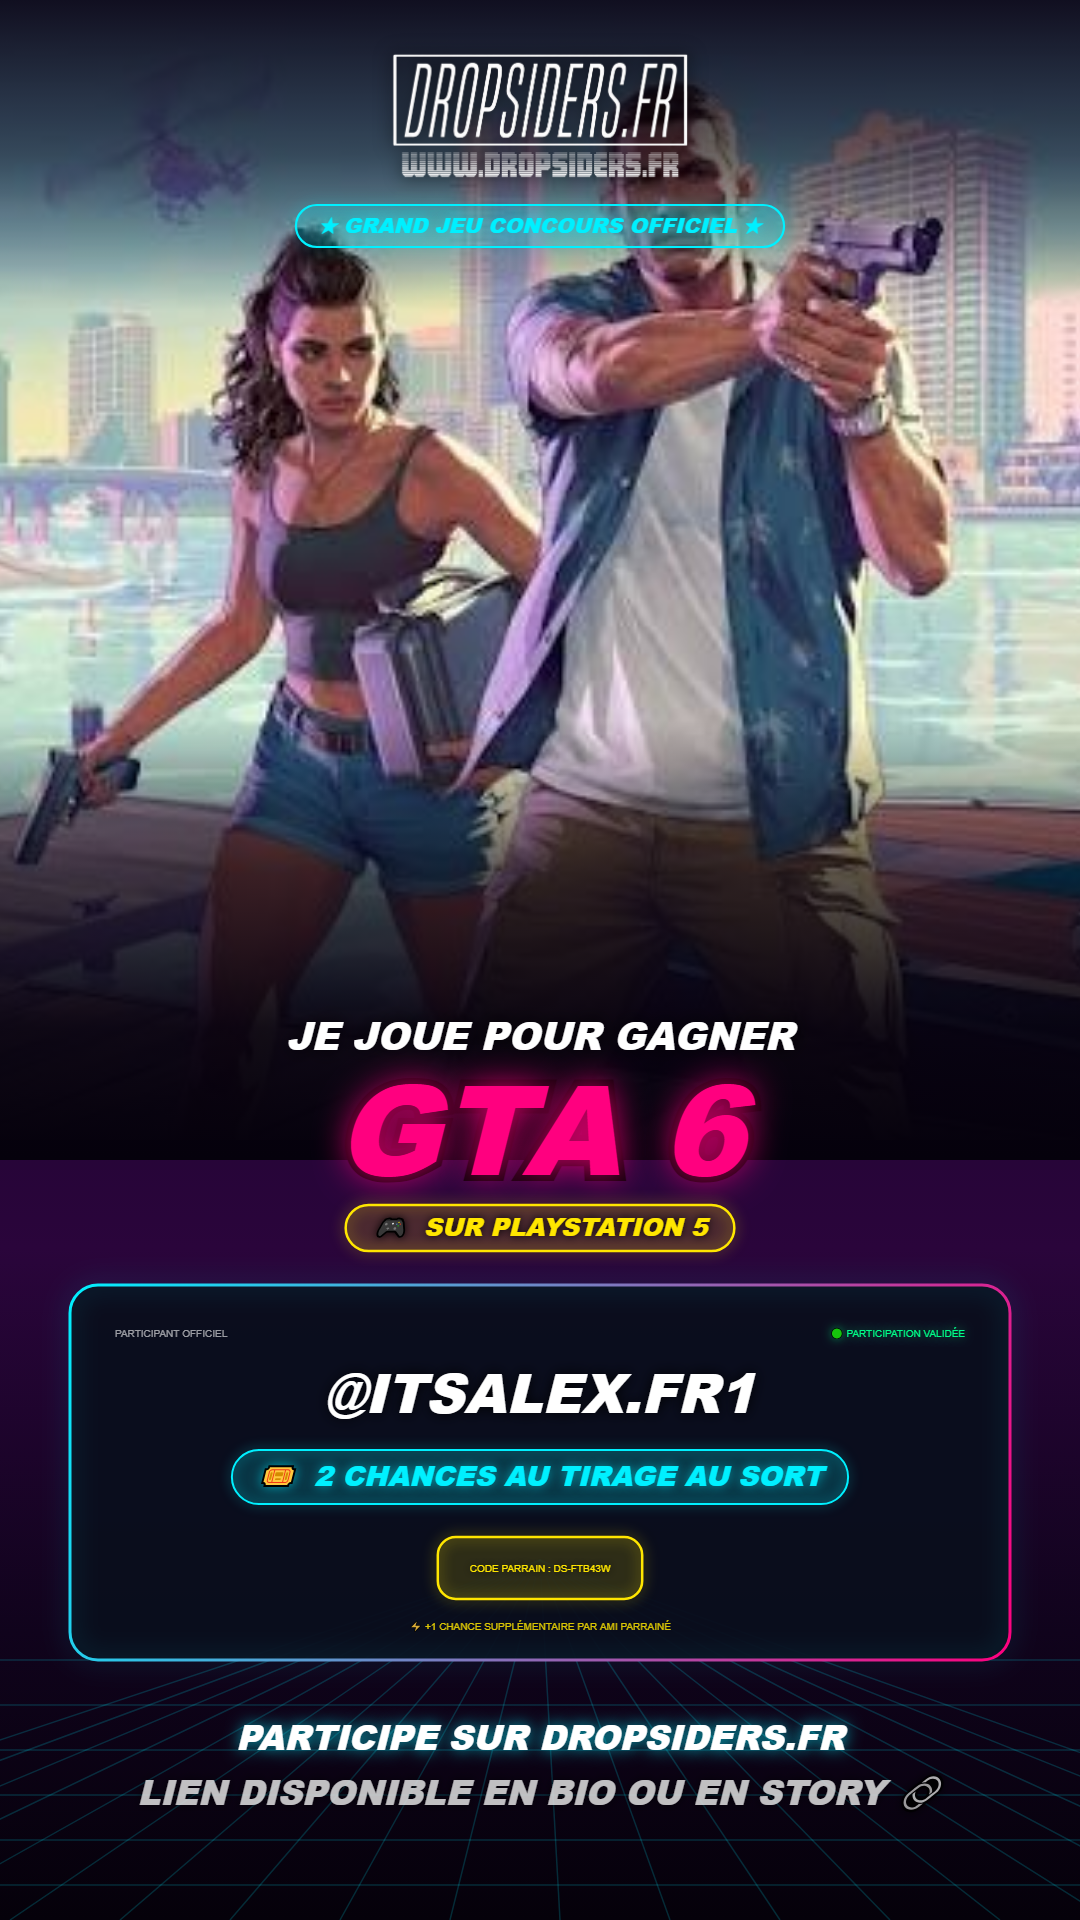
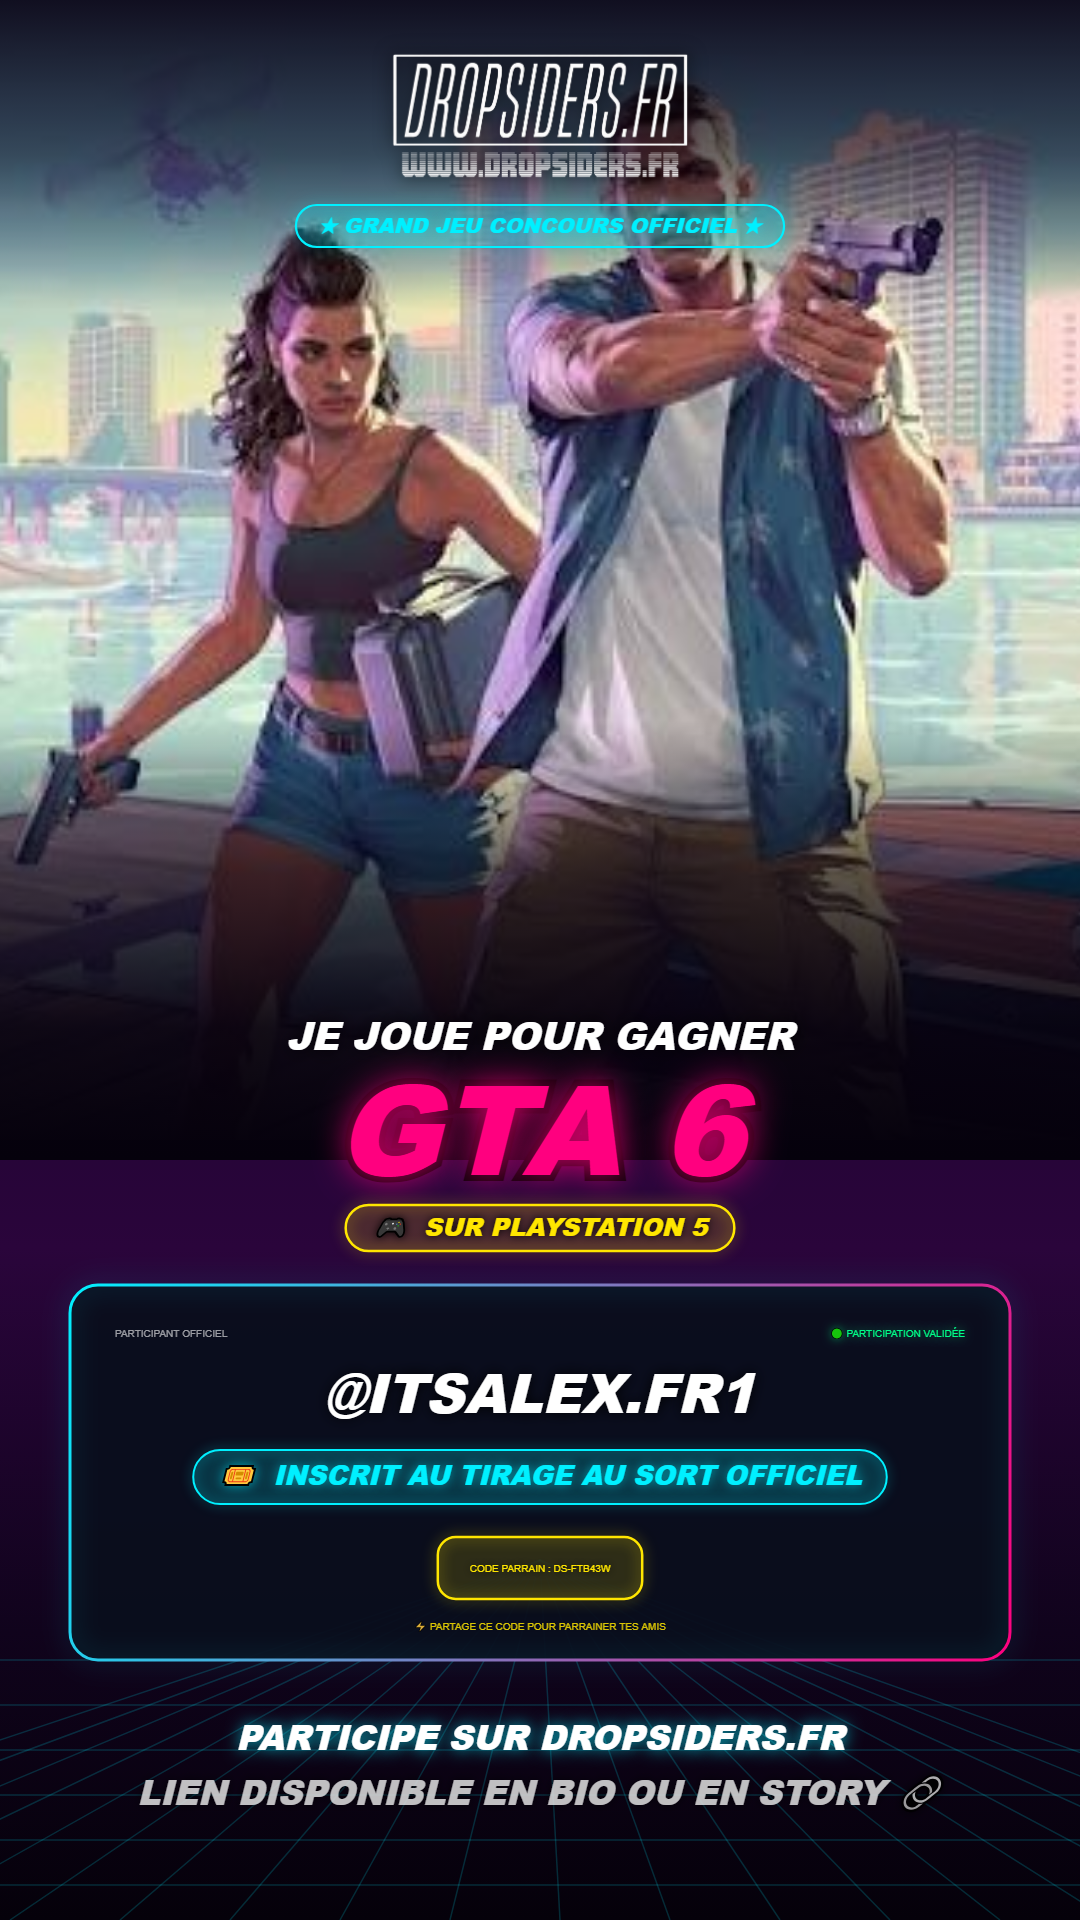
feat(contest): add referral code input field and remove 2 chances mentions

Changed region(s): [[0.1833, 0.75, 0.825, 0.7812]]

diff --git a/src/pages/GTAContestPage.tsx b/src/pages/GTAContestPage.tsx
@@ -227,11 +227,8 @@ export function GTAContestPage() {
             const referralCode = generateReferralCode();
             const optInToken = 'ds_opt_' + Math.random().toString(36).substring(2, 12);
 
-            // Compute chances
-            // Base ticket: 1 (if correct)
-            // Account bonus: +1 if checked or logged in
-            const accountBonusGranted = createAccountBonus || isLoggedIn;
-            const totalTickets = evalResult.isAllCorrect ? (1 + (accountBonusGranted ? 1 : 0)) : 0;
+            // 1 valid entry for the official lottery
+            const totalTickets = evalResult.isAllCorrect ? 1 : 0;
 
             const newEntry: GTAContestEntry = {
                 id: 'gta_' + Date.now(),
@@ -240,9 +237,9 @@ export function GTAContestPage() {
                 instagram: instagram.trim().startsWith('@') ? instagram.trim() : `@${instagram.trim()}`,
                 email: email.trim().toLowerCase(),
                 plateforme,
-                hasAccountBonus: accountBonusGranted,
+                hasAccountBonus: false,
                 referralCode,
-                referredBy: referredBy || undefined,
+                referredBy: referredBy.trim() ? referredBy.trim().toUpperCase() : undefined,
                 referralCount: 0,
                 totalTickets,
                 answers: { q1: q1.trim(), q2: q2.trim(), q3: q3.trim() },
@@ -572,8 +569,8 @@ export function GTAContestPage() {
                                 </span>
                             </div>
                             <div className="flex justify-between text-xs border-t border-white/10 pt-3">
-                                <span className="text-gray-400 font-bold uppercase">Total Chances Tirage :</span>
-                                <span className="text-[#ff007f] font-black text-sm">🎟 {existingEntry.totalTickets} Ticket(s)</span>
+                                <span className="text-gray-400 font-bold uppercase">Tirage au Sort :</span>
+                                <span className="text-[#00f0ff] font-black text-sm">🎟 Participation Validée</span>
                             </div>
                         </div>
 
@@ -698,6 +695,32 @@ export function GTAContestPage() {
                                         className="w-full bg-white/5 border border-white/10 rounded-2xl px-5 py-4 text-white placeholder-gray-500 font-bold focus:outline-none focus:border-[#00f0ff] focus:bg-white/10 transition-all"
                                     />
                                 </div>
+
+                                {/* CHAMP CODE PARRAIN (OPTIONNEL) */}
+                                <div className="sm:col-span-2 bg-[#ffe600]/10 border border-[#ffe600]/30 rounded-2xl p-4 sm:p-5 flex flex-col sm:flex-row sm:items-center justify-between gap-4">
+                                    <div className="flex items-center gap-3">
+                                        <div className="w-10 h-10 rounded-xl bg-[#ffe600]/20 border border-[#ffe600]/40 flex items-center justify-center shrink-0">
+                                            <Gift className="w-5 h-5 text-[#ffe600]" />
+                                        </div>
+                                        <div>
+                                            <label className="block text-xs font-black uppercase tracking-widest text-[#ffe600]">
+                                                Code Parrain <span className="text-gray-400 font-medium normal-case">(optionnel)</span>
+                                            </label>
+                                            <p className="text-[11px] text-gray-300 font-medium">
+                                                Si un ami t'a partagé son code de parrainage (ex: en story), saisis-le ici !
+                                            </p>
+                                        </div>
+                                    </div>
+                                    <div className="w-full sm:w-60">
+                                        <input 
+                                            type="text" 
+                                            placeholder="Ex: DS-FTB43W"
+                                            value={referredBy}
+                                            onChange={(e) => setReferredBy(e.target.value.toUpperCase().trim())}
+                                            className="w-full bg-black/60 border border-[#ffe600]/50 rounded-xl px-4 py-3 text-[#ffe600] placeholder-gray-500 font-black tracking-widest text-center uppercase focus:outline-none focus:border-[#ffe600] focus:ring-2 focus:ring-[#ffe600]/30 transition-all text-sm"
+                                        />
+                                    </div>
+                                </div>
                             </div>
 
                             {/* CHOIX DE LA PLATEFORME (RADIO BUTTONS CARDS) */}
@@ -794,29 +817,6 @@ export function GTAContestPage() {
                                 </div>
                             </div>
 
-                            {/* OPTION BONUS CRÉATION DE COMPTE */}
-                            <div className="bg-gradient-to-r from-[#ff007f]/10 to-[#00f0ff]/10 border border-[#ff007f]/30 rounded-2xl p-4 flex items-center justify-between gap-4">
-                                <label className="flex items-center gap-3 cursor-pointer select-none">
-                                    <input 
-                                        type="checkbox"
-                                        checked={createAccountBonus || isLoggedIn}
-                                        disabled={isLoggedIn}
-                                        onChange={(e) => setCreateAccountBonus(e.target.checked)}
-                                        className="w-5 h-5 rounded-md accent-[#ff007f] cursor-pointer"
-                                    />
-                                    <div>
-                                        <span className="text-xs font-black uppercase tracking-wider text-white flex items-center gap-2">
-                                            {isLoggedIn ? "Tu es connecté sur Dropsiders" : "Créer un compte sur Dropsiders"}
-                                            <span className="text-[10px] bg-[#ff007f] text-white px-2 py-0.5 rounded-full font-black">
-                                                +1 CHANCE BONUS
-                                            </span>
-                                        </span>
-                                        <p className="text-[10px] text-gray-400 font-medium">
-                                            Double immédiatement tes chances de victoire au tirage au sort officiel.
-                                        </p>
-                                    </div>
-                                </label>
-                            </div>
                         </div>
 
                         {/* =========================================================================

diff --git a/src/utils/gtaStoryVisual.ts b/src/utils/gtaStoryVisual.ts
@@ -259,10 +259,10 @@ export async function generateGTA6StoryVisual(params: {
     ctx.fillText(cleanInsta, width / 2, cardY + 128);
     ctx.restore();
 
-    // Ligne 3 : Badge Tickets
+    // Ligne 3 : Badge Inscription Tirage au sort (sans mention de 2 chances)
     ctx.save();
-    const ticketText = `🎟  ${params.tickets} CHANCE${params.tickets > 1 ? 'S' : ''} AU TIRAGE AU SORT`;
-    ctx.font = '900 italic 28px "Montserrat", sans-serif';
+    const ticketText = '🎟  INSCRIT AU TIRAGE AU SORT OFFICIEL';
+    ctx.font = '900 italic 27px "Montserrat", sans-serif';
     const tBadgeW = ctx.measureText(ticketText).width + 50;
     const tBadgeH = 54;
     const tBadgeX = (width - tBadgeW) / 2;
@@ -314,12 +314,12 @@ export async function generateGTA6StoryVisual(params: {
     ctx.fillText(refText, width / 2, refY + refH / 2 + 1);
     ctx.restore();
 
-    // Hint bonus parrainage discret sous la capsule
+    // Mention parrainage sous la capsule
     ctx.save();
     ctx.textAlign = 'center';
     ctx.font = '800 uppercase 18px "Montserrat", sans-serif';
     ctx.fillStyle = 'rgba(255, 230, 0, 0.85)';
-    ctx.fillText('⚡ +1 CHANCE SUPPLÉMENTAIRE PAR AMI PARRAINÉ', width / 2, cardY + 345);
+    ctx.fillText('⚡ PARTAGE CE CODE POUR PARRAINER TES AMIS', width / 2, cardY + 345);
     ctx.restore();
 
     // =========================================================================
